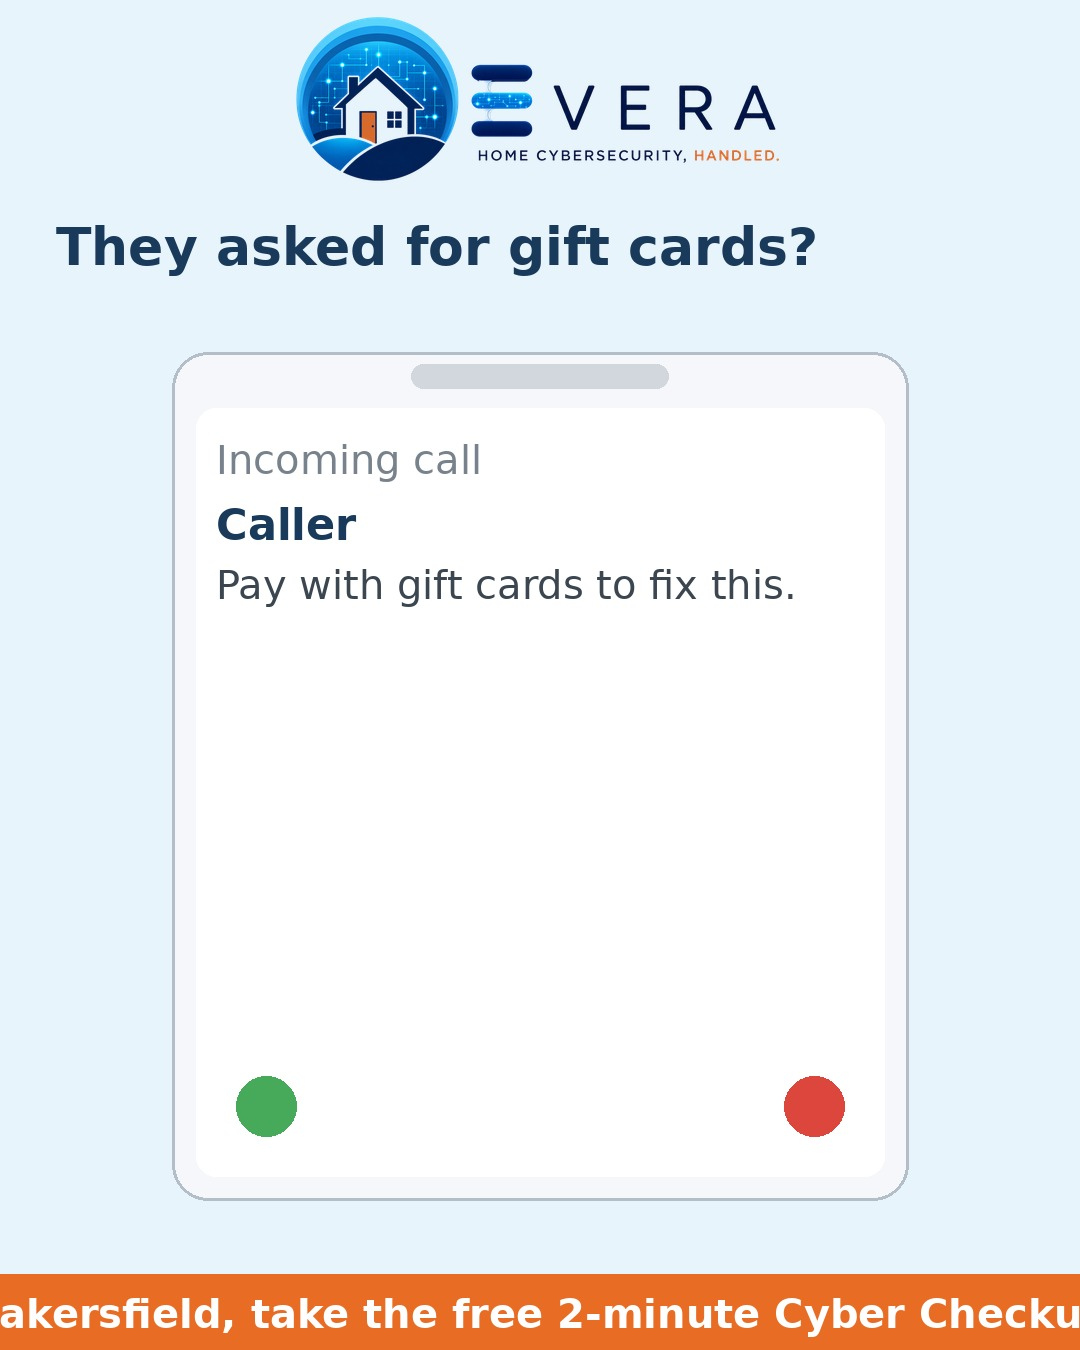
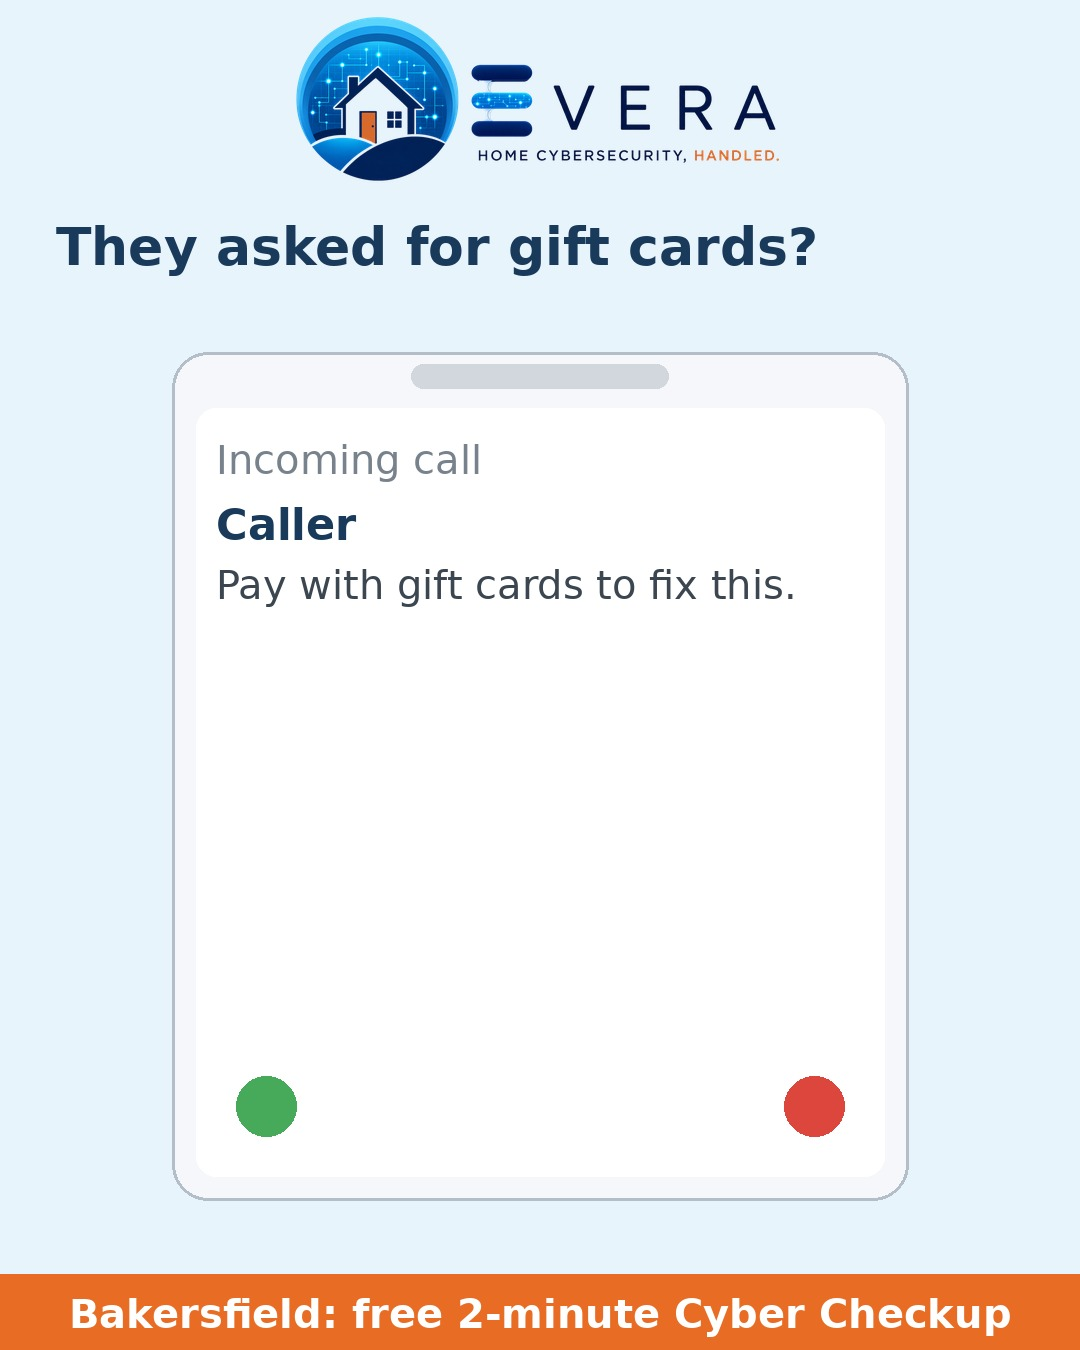
Fix Bakersfield CTA bar on 05-29; add CTA width build check

Changed region(s): [[0.0, 0.9644, 1.0, 0.9956]]

diff --git a/scripts/build_collateral_social.py b/scripts/build_collateral_social.py
@@ -40,6 +40,7 @@ LOGO_TARGET_WIDTH = 500
 BODY_MIN_PX = 40
 CTA_MIN_PX = 40
 CTA_BAR_H = 76
+CTA_BAR_PAD = 48
 FOUNDING_ON_IMAGE = "Founding Member pricing for 12 months"
 
 SET_FOLDERS: list[tuple[str, str, str, str]] = [
@@ -160,6 +161,75 @@ def cta_display_text(cta_bar: str) -> str:
     if text.endswith(":"):
         text = text[:-1].strip()
     return text
+
+
+def cta_font_for_bar(is_portrait: bool) -> ImageFont.FreeTypeFont:
+    return ImageFont.truetype(FONT_BOLD, max(CTA_MIN_PX, 40))
+
+
+def cta_bar_lines(
+    draw: ImageDraw.ImageDraw,
+    text: str,
+    font: ImageFont.FreeTypeFont,
+    max_inner_w: float,
+) -> list[str]:
+    if draw.textlength(text, font=font) <= max_inner_w:
+        return [text]
+    words = text.split()
+    if len(words) < 2:
+        return [text]
+    for i in range(1, len(words)):
+        line1 = " ".join(words[:i])
+        line2 = " ".join(words[i:])
+        if draw.textlength(line1, font=font) <= max_inner_w and draw.textlength(line2, font=font) <= max_inner_w:
+            return [line1, line2]
+    wrapped = wrap_text(draw, text, font, int(max_inner_w))
+    if len(wrapped) <= 2:
+        return wrapped
+    return [wrapped[0], " ".join(wrapped[1:])]
+
+
+def assert_cta_fits_canvas(
+    canvas_w: int,
+    lines: list[str],
+    font: ImageFont.FreeTypeFont,
+    slug: str,
+    size_label: str,
+) -> None:
+    max_inner = canvas_w - 2 * CTA_BAR_PAD
+    probe = ImageDraw.Draw(Image.new("RGB", (1, 1)))
+    for line in lines:
+        if probe.textlength(line, font=font) > max_inner:
+            raise SystemExit(
+                f"CTA bar overflow on {slug} ({size_label}): line {line!r} exceeds "
+                f"{max_inner:.0f}px inner width (canvas {canvas_w}px, pad {CTA_BAR_PAD}px)"
+            )
+
+
+def draw_cta_bar(
+    canvas: Image.Image,
+    cta_bar: str,
+    slug: str,
+    size_label: str,
+) -> None:
+    w, h = canvas.size
+    draw = ImageDraw.Draw(canvas)
+    cta_text = cta_display_text(cta_bar)
+    cta_font = cta_font_for_bar(h > w)
+    max_inner = w - 2 * CTA_BAR_PAD
+    lines = cta_bar_lines(draw, cta_text, cta_font, max_inner)
+    assert_cta_fits_canvas(w, lines, cta_font, slug, size_label)
+
+    cta_h = CTA_BAR_H
+    if len(lines) > 1:
+        cta_h = max(CTA_BAR_H, int(cta_font.size * 1.15 * len(lines) + 20))
+    draw.rectangle((0, h - cta_h, w, h), fill=ORANGE)
+    line_h = int(cta_font.size * 1.12)
+    block_h = line_h * len(lines)
+    y0 = h - cta_h + (cta_h - block_h) // 2
+    for i, line in enumerate(lines):
+        tw = draw.textlength(line, font=cta_font)
+        draw.text(((w - tw) / 2, y0 + i * line_h), line, fill=WHITE, font=cta_font)
 
 
 def draw_phone_hero(size: tuple[int, int], caller_line: str, subtitle: str) -> Image.Image:
@@ -393,6 +463,7 @@ def render_card(
     content: CardContent,
     logo: Image.Image,
     size: tuple[int, int],
+    slug: str,
 ) -> Image.Image:
     w, h = size
     is_portrait = h > w
@@ -406,6 +477,7 @@ def render_card(
     cta_h = CTA_BAR_H
     text_top = header_h + 16
     text_bottom_limit = h - cta_h - 16
+    size_label = "portrait" if is_portrait else "square"
 
     headline_px = 52 if is_portrait else 46
     body_px = 42 if is_portrait else 40
@@ -477,11 +549,7 @@ def render_card(
     else:
         canvas.paste(draw_icons_hero(hero_size), (margin_x, hero_top))
 
-    cta_text = cta_display_text(content["cta_bar"])
-    draw.rectangle((0, h - cta_h, w, h), fill=ORANGE)
-    cta_font = ImageFont.truetype(FONT_BOLD, max(CTA_MIN_PX, 40 if not is_portrait else 40))
-    tw = draw.textlength(cta_text, font=cta_font)
-    draw.text(((w - tw) / 2, h - cta_h + (cta_h - cta_font.size) // 2 - 2), cta_text, fill=WHITE, font=cta_font)
+    draw_cta_bar(canvas, content["cta_bar"], slug, size_label)
     return canvas
 
 
@@ -584,8 +652,8 @@ def main() -> int:
         issues: list[str] = []
 
         try:
-            square = render_card(content, logo, SQUARE_SIZE)
-            portrait = render_card(content, logo, PORTRAIT_SIZE)
+            square = render_card(content, logo, SQUARE_SIZE, slug)
+            portrait = render_card(content, logo, PORTRAIT_SIZE, slug)
             square.save(OUT_DIR / square_name, "JPEG", quality=92, optimize=True)
             portrait.save(OUT_DIR / portrait_name, "JPEG", quality=92, optimize=True)
         except Exception as exc:  # noqa: BLE001

diff --git a/scripts/collateral_content.py b/scripts/collateral_content.py
@@ -70,7 +70,7 @@ def _card(
 
 START_CTA = "Start with the free 2-minute Cyber Checkup:"
 CHECKUP_CTA = "Take the free 2-minute Cyber Checkup:"
-BAK_CTA = "Bakersfield, take the free 2-minute Cyber Checkup:"
+BAK_CTA = "Bakersfield: free 2-minute Cyber Checkup:"
 MEM_CTA = "Memphis, take the free 2-minute Cyber Checkup:"
 
 FOUNDING_IMAGE = (
